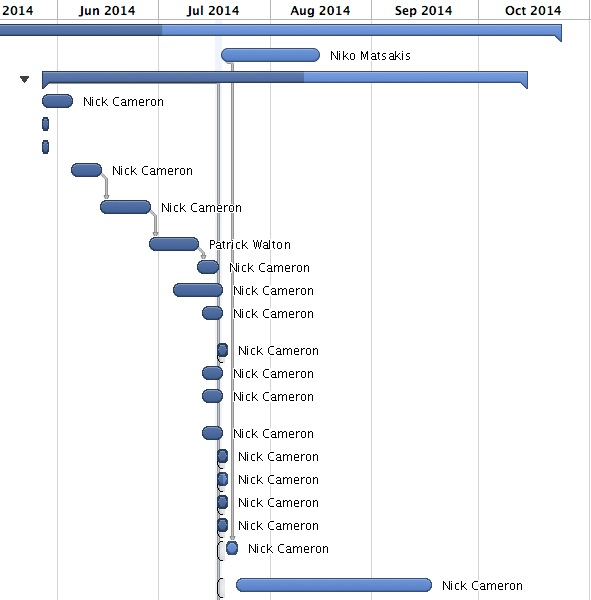
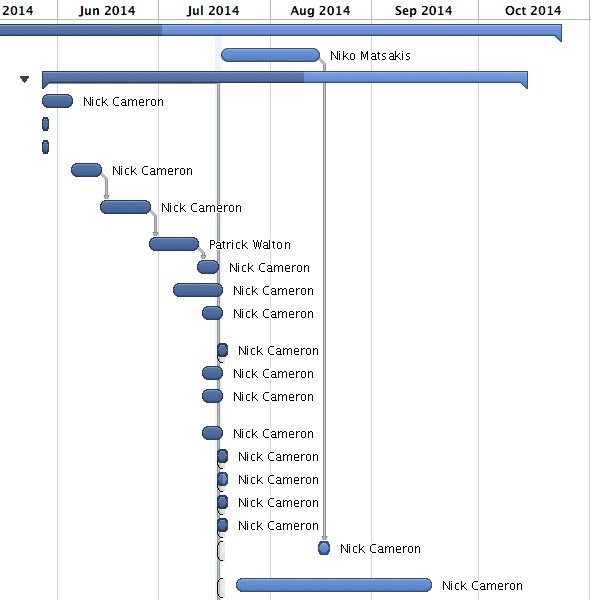
wip

diff --git a/Rust_BaselineResources.html b/Rust_BaselineResources.html
@@ -401,19 +401,19 @@
             </tr>
             
             <tr>
-                <td style="padding-left: 18px;" class="wrap taskTypeTask">? DST coercions in method lookup</td> 
-                <td>7/21/14</td>
-                <td>7/22/14</td>
-                <td>2d</td>
+                <td style="padding-left: 18px;" class="wrap taskTypeTask">? Recursive coercions</td> 
+                <td>7/23/14</td>
+                <td>9/16/14</td>
+                <td>8w</td>
                 <td>0%</td>
                 <td align="right"></td>
             </tr>
             
             <tr>
-                <td style="padding-left: 18px;" class="wrap taskTypeTask">? Recursive coercions</td> 
-                <td>7/23/14</td>
-                <td>9/16/14</td>
-                <td>8w</td>
+                <td style="padding-left: 18px;" class="wrap taskTypeTask">? DST coercions in method lookup</td> 
+                <td>8/15/14</td>
+                <td>8/18/14</td>
+                <td>2d</td>
                 <td>0%</td>
                 <td align="right"></td>
             </tr>

diff --git a/Rust_BaselineGantt.html b/Rust_BaselineGantt.html
@@ -1,14 +1,14 @@
 <html><body><table border="0" cellspacing="0" cellpadding="0">
 <tr>
-	<td><img src="include/gantt0,0.jpg?nocacheTag=1956755209" border=0/></td>
-	<td><img src="include/gantt1,0.jpg?nocacheTag=-92428710" border=0/></td>
+	<td><img src="include/gantt0,0.jpg?nocacheTag=-1629985993" border=0/></td>
+	<td><img src="include/gantt1,0.jpg?nocacheTag=981644903" border=0/></td>
 </tr>
 <tr>
-	<td><img src="include/gantt0,1.jpg?nocacheTag=680061493" border=0/></td>
-	<td><img src="include/gantt1,1.jpg?nocacheTag=1105927081" border=0/></td>
+	<td><img src="include/gantt0,1.jpg?nocacheTag=1983183659" border=0/></td>
+	<td><img src="include/gantt1,1.jpg?nocacheTag=-771603914" border=0/></td>
 </tr>
 <tr>
-	<td><img src="include/gantt0,2.jpg?nocacheTag=-418650401" border=0/></td>
-	<td><img src="include/gantt1,2.jpg?nocacheTag=238851987" border=0/></td>
+	<td><img src="include/gantt0,2.jpg?nocacheTag=512258878" border=0/></td>
+	<td><img src="include/gantt1,2.jpg?nocacheTag=37364518" border=0/></td>
 </tr>
 </table></body></html>

diff --git a/Rust_Baseline.html b/Rust_Baseline.html
@@ -384,11 +384,11 @@
             
             <tr class="taskTypeTask">
                 <td style="padding-left: 38px;" class="wrap">1.2.18) ? DST coercions in method lookup</td>
-                <td>7/21/14</td>
-                <td>7/22/14</td>
+                <td>8/15/14</td>
+                <td>8/18/14</td>
                 <td>2d</td>
                 <td>0%</td>
-                <td>1.1SF</td>
+                <td>1.1</td>
                 <td align="right"></td>
                 <td>Nick Cameron</td>
                 <td></td>
